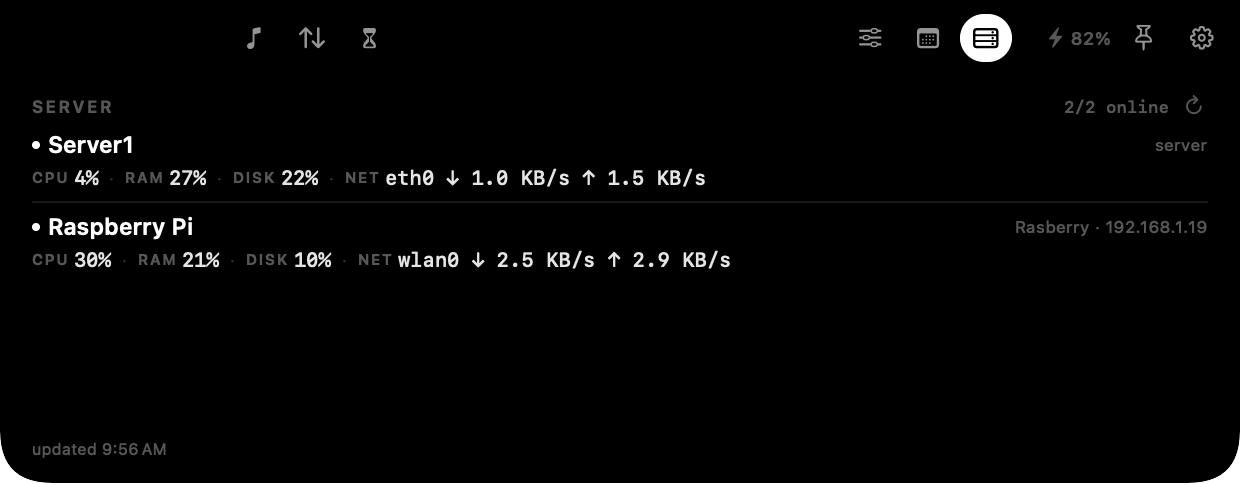
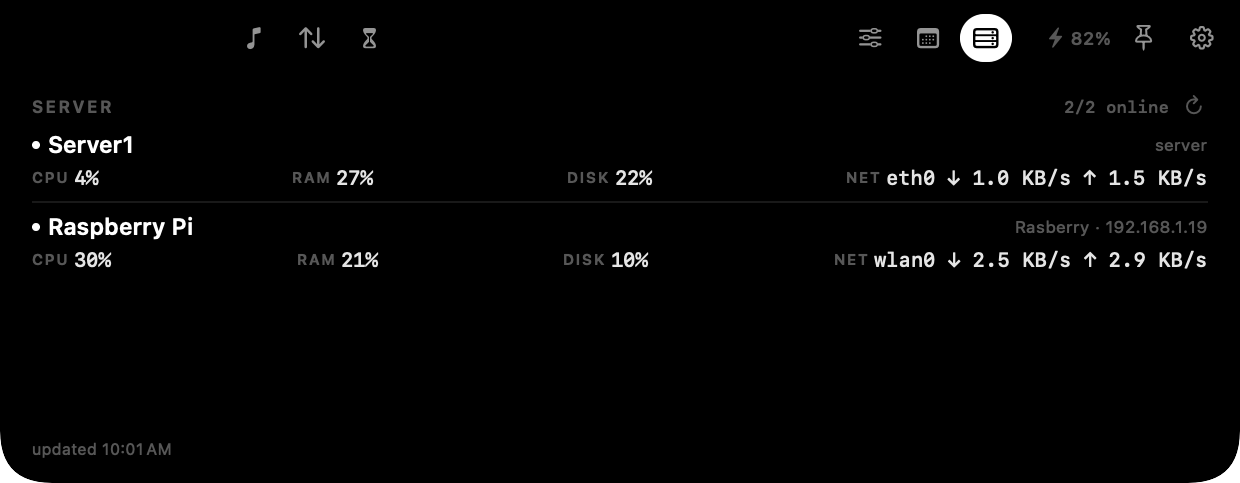
lost_Island 0.7.2: auto-justified server metrics and path-based Keychain ACL

diff --git a/Sources/Services/Keychain.swift b/Sources/Services/Keychain.swift
@@ -2,8 +2,11 @@ import Foundation
 import Security
 
 /// Small generic-password store for the Beszel password and Cloudflare Access
-/// service secret. Non-secret fields (hub URL, email, client ID) live in
-/// UserDefaults.
+/// service secret.
+///
+/// The item's ACL trusts the app bundle path, not just the current ad-hoc
+/// signature, so rebuilding the app at the same path can still read and update
+/// the credentials.
 enum Keychain {
     private static let service = "dev.dhanuz.islet"
 
@@ -12,21 +15,36 @@ enum Keychain {
             delete(account: account)
             return
         }
+
         let data = Data(value.utf8)
         let query: [String: Any] = [
             kSecClass as String: kSecClassGenericPassword,
             kSecAttrService as String: service,
             kSecAttrAccount as String: account,
         ]
-        let attributes: [String: Any] = [
+
+        var update: [String: Any] = [
             kSecValueData as String: data,
-            kSecAttrAccessible as String: kSecAttrAccessibleAfterFirstUnlock,
         ]
 
-        let status = SecItemUpdate(query as CFDictionary, attributes as CFDictionary)
+        let status = SecItemUpdate(query as CFDictionary, update as CFDictionary)
         if status == errSecItemNotFound {
             var add = query
-            add.merge(attributes) { _, new in new }
+            add[kSecValueData as String] = data
+            if let access = accessObject() {
+                add[kSecAttrAccess as String] = access
+            } else {
+                add[kSecAttrAccessible as String] = kSecAttrAccessibleAfterFirstUnlock
+            }
+            SecItemAdd(add as CFDictionary, nil)
+        } else if status != errSecSuccess {
+            // The existing item may be bound to an older signature. Try a
+            // fresh add; if the item is still there, leave it alone.
+            var add = query
+            add[kSecValueData as String] = data
+            if let access = accessObject() {
+                add[kSecAttrAccess as String] = access
+            }
             SecItemAdd(add as CFDictionary, nil)
         }
     }
@@ -52,5 +70,25 @@ enum Keychain {
             kSecAttrAccount as String: account,
         ]
         SecItemDelete(query as CFDictionary)
+    }
+
+    /// ACL that trusts this app's bundle path. A rebuilt app at the same path
+    /// can read the item without a signature-specific prompt.
+    private static func accessObject() -> SecAccess? {
+        var trusted: SecTrustedApplication?
+        let trustedStatus = SecTrustedApplicationCreateFromPath(
+            Bundle.main.bundlePath,
+            &trusted
+        )
+        guard trustedStatus == errSecSuccess, let trusted else { return nil }
+
+        var access: SecAccess?
+        let accessStatus = SecAccessCreate(
+            service as CFString,
+            [trusted] as CFArray,
+            &access
+        )
+        guard accessStatus == errSecSuccess else { return nil }
+        return access
     }
 }

diff --git a/Sources/Island/Panes/ServerPane.swift b/Sources/Island/Panes/ServerPane.swift
@@ -95,14 +95,15 @@ struct ServerPane: View {
 
             let items = metricItems(system)
             if !items.isEmpty {
-                HStack(spacing: 5) {
+                HStack(spacing: 0) {
                     ForEach(Array(items.enumerated()), id: \.offset) { index, item in
                         metric(item.0, item.1)
                         if index < items.count - 1 {
-                            separator
+                            Spacer(minLength: 10)
                         }
                     }
                 }
+                .frame(maxWidth: .infinity, alignment: .leading)
             }
         }
         .padding(.vertical, 2)
@@ -136,12 +137,6 @@ struct ServerPane: View {
                 .foregroundStyle(Theme.text.opacity(0.9))
                 .lineLimit(1)
         }
-    }
-
-    private var separator: some View {
-        Text("·")
-            .font(.system(size: 8))
-            .foregroundStyle(Theme.tertiary.opacity(0.5))
     }
 
     private func networkText(_ system: BeszelMetrics) -> String {

diff --git a/Sources/Services/ServerStatusService.swift b/Sources/Services/ServerStatusService.swift
@@ -37,8 +37,8 @@ final class ServerStatusService: ObservableObject {
         static let url = "islet.beszel.url"
         static let email = "islet.beszel.email"
         static let accessID = "islet.beszel.accessID"
-        static let passwordAccount = "beszel.password.v2"
-        static let accessSecretAccount = "beszel.accessSecret.v2"
+        static let passwordAccount = "beszel.password.v3"
+        static let accessSecretAccount = "beszel.accessSecret.v3"
     }
 
     var publicConfig: PublicConfig {

diff --git a/Sources/Settings/SettingsView.swift b/Sources/Settings/SettingsView.swift
@@ -297,7 +297,7 @@ struct SettingsView: View {
     }
 
     private var version: String {
-        let short = Bundle.main.object(forInfoDictionaryKey: "CFBundleShortVersionString") as? String ?? "0.7.1"
+        let short = Bundle.main.object(forInfoDictionaryKey: "CFBundleShortVersionString") as? String ?? "0.7.2"
         return "v\(short)"
     }
 

diff --git a/README.md b/README.md
@@ -77,7 +77,9 @@ open /Applications/lost_Island.app
 2. **Click a tab.** The pane hangs below the notch. The pin keeps it open; the
    gear opens Settings.
 3. **Choose Server metrics.** Settings → **Server metrics**: tick CPU, RAM,
-   Disk and Network. Only the checked metrics appear in the Server tab.
+   Disk and Network. Only the checked metrics appear, and the remaining metrics
+   auto-justify across the full row (uncheck Network and CPU/RAM/Disk spread
+   edge-to-edge).
 4. **Choose modules.** Settings → **Modules**: enable or disable any tab.
 5. **Connect Beszel.** Settings → **Server (Beszel)**: hub URL, read-only
    email/password, optional Cloudflare Access Client ID/Secret.
@@ -213,7 +215,7 @@ Open **Settings** from the menu bar or the gear in the island.
 
 - Modules: Music, Network, Screen Time, Controls, Calendar, Server.
 - Server metrics: CPU / RAM / Disk / Network checkboxes (only checked metrics
-  show in the Server tab).
+  show; the rest auto-fill the row).
 - Behavior: expand on hover, battery in header, launch at login.
 - Motion: Calm animations.
 - Network: today's total, live rate and a reset button.

diff --git a/docs/SESSION.md b/docs/SESSION.md
@@ -246,3 +246,16 @@ in the menu bar left and right of the notch; add install/using steps to GitHub.
 - Updated the README with an Installation section, a Using lost_Island section,
   the Server metrics checkboxes, and the Raspberry Pi agent steps.
 - Version 0.7.1. The Beszel secret moved to `beszel.password.v2` / `beszel.accessSecret.v2` so a rebuilt app gets its own Keychain ACL instead of reusing an item bound to an older signature.
+
+## Phase 7 — auto-justified server metrics + path Keychain ACL (7 Nov 2026)
+
+Request: when a Server metric is removed, the remaining metrics should align and
+fill the width.
+
+- `ServerPane` now puts flexible `Spacer`s between the checked metrics, so
+  CPU/RAM/Disk/Network fill the row; unchecking Network leaves CPU/RAM/Disk
+  justified edge-to-edge. All unchecked leaves only the name/status line.
+- Keychain items moved to v3 accounts (`beszel.password.v3` /
+  `beszel.accessSecret.v3`) with a `SecAccess` trusted app path, so the Beszel
+  credential survives rebuilds at `/Applications/lost_Island.app`.
+- Version 0.7.2.

diff --git a/AGENTS.md b/AGENTS.md
@@ -97,7 +97,10 @@ ARCHS="arm64 x86_64" ./build.sh             # universal
     the per-system `TOKEN` from the `fingerprints` collection. Server metric
     visibility is controlled by `Defaults.serverCPU/RAM/Disk/Network` and the
     Settings → Server metrics checkboxes; `ServerPane` reads them via
-    `@AppStorage`.
+    `@AppStorage`. The row uses flexible spacers, so removing a metric spreads
+    the remaining ones across the full width. Keychain items use a path-based
+    `SecAccess` with v3 accounts so the Beszel secret survives rebuilds at the
+    same app path.
 11. **Ad-hoc signing.** The app and the helper dylib are signed `-`. Rebuilding
     can reset TCC prompts; that is expected in development.
 
